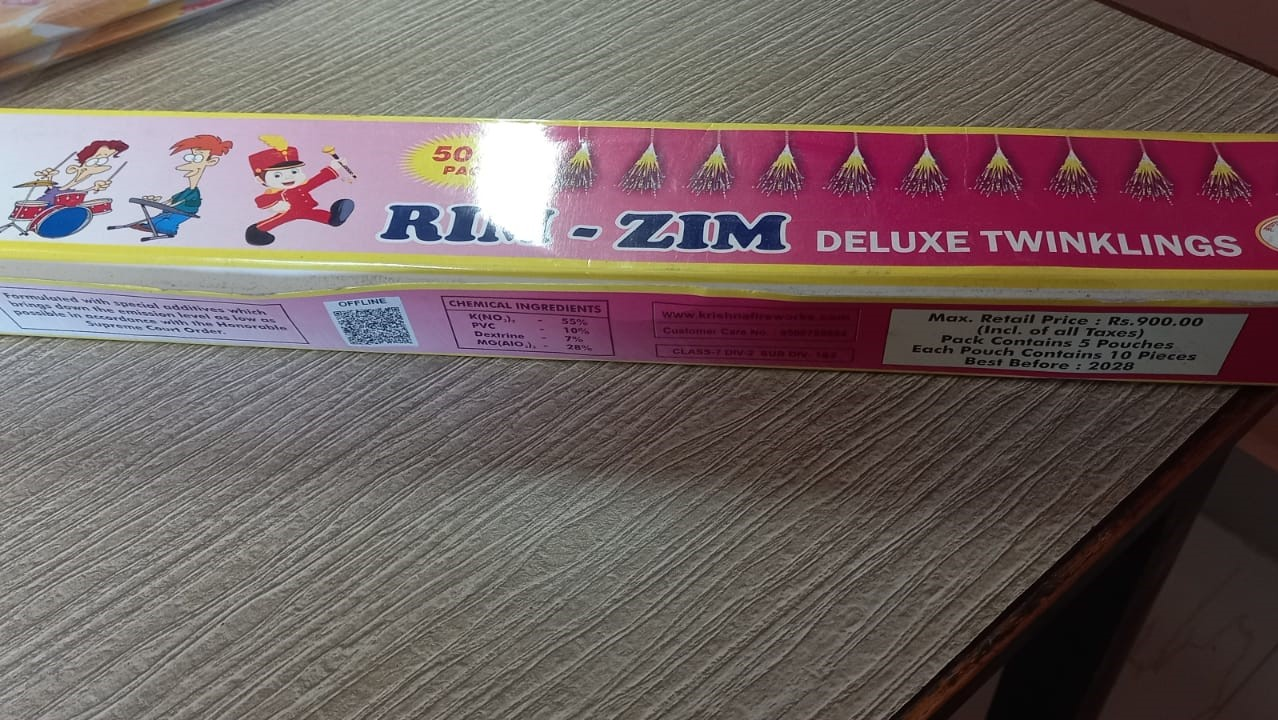
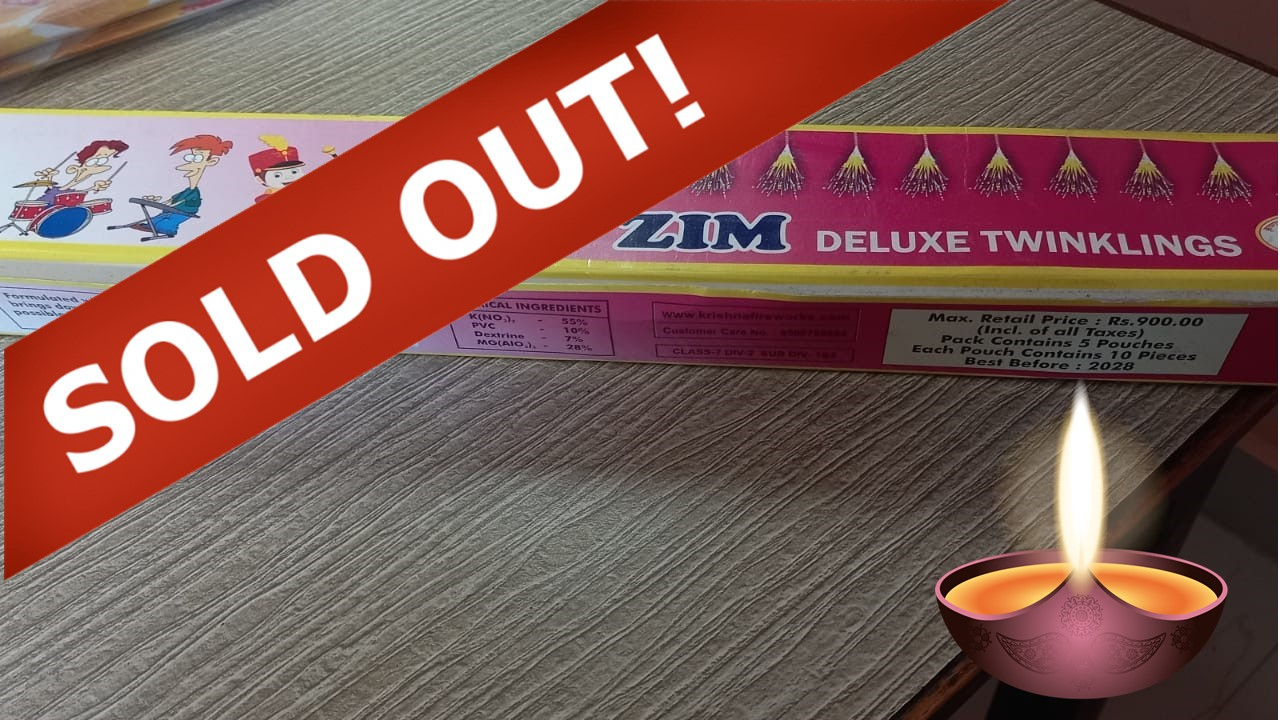
manysoldout

diff --git a/Desktop/cat.js b/Desktop/cat.js
@@ -84,14 +84,6 @@ function buynoww7(){
     document.getElementById("proamount").value = "Product Amount: "+amount;
 }
 
-function buynoww8(){
-    var t= document.getElementById("itemname8");
-    var name=t.innerText;
-    document.getElementById("proname").value = "Product Name: "+name;
-    var s= document.getElementById("itemamount8");
-    var amount=s.innerText;
-    document.getElementById("proamount").value = "Product Amount: "+amount;
-}
 function buynoww9(){
     var t= document.getElementById("itemname9");
     var name=t.innerText;
@@ -214,14 +206,6 @@ function buynoww22(){
     var amount=s.innerText;
     document.getElementById("proamount").value = "Product Amount: "+amount;
 }
-function buynoww23(){
-    var t= document.getElementById("itemname23");
-    var name=t.innerText;
-    document.getElementById("proname").value = "Product Name: "+name;
-    var s= document.getElementById("itemamount23");
-    var amount=s.innerText;
-    document.getElementById("proamount").value = "Product Amount: "+amount;
-}
 function buynoww24(){
     var t= document.getElementById("itemname24");
     var name=t.innerText;
@@ -267,14 +251,6 @@ function buynoww30(){
     var name=t.innerText;
     document.getElementById("proname").value = "Product Name: "+name;
     var s= document.getElementById("itemamount30");
-    var amount=s.innerText;
-    document.getElementById("proamount").value = "Product Amount: "+amount;
-}
-function buynoww31(){
-    var t= document.getElementById("itemname31");
-    var name=t.innerText;
-    document.getElementById("proname").value = "Product Name: "+name;
-    var s= document.getElementById("itemamount31");
     var amount=s.innerText;
     document.getElementById("proamount").value = "Product Amount: "+amount;
 }

diff --git a/Mobile/cat.js b/Mobile/cat.js
@@ -84,14 +84,6 @@ function buynoww7(){
     document.getElementById("proamount").value = "Product Amount: "+amount;
 }
 
-function buynoww8(){
-    var t= document.getElementById("itemname8");
-    var name=t.innerText;
-    document.getElementById("proname").value = "Product Name: "+name;
-    var s= document.getElementById("itemamount8");
-    var amount=s.innerText;
-    document.getElementById("proamount").value = "Product Amount: "+amount;
-}
 function buynoww9(){
     var t= document.getElementById("itemname9");
     var name=t.innerText;
@@ -214,14 +206,7 @@ function buynoww22(){
     var amount=s.innerText;
     document.getElementById("proamount").value = "Product Amount: "+amount;
 }
-function buynoww23(){
-    var t= document.getElementById("itemname23");
-    var name=t.innerText;
-    document.getElementById("proname").value = "Product Name: "+name;
-    var s= document.getElementById("itemamount23");
-    var amount=s.innerText;
-    document.getElementById("proamount").value = "Product Amount: "+amount;
-}
+
 function buynoww24(){
     var t= document.getElementById("itemname24");
     var name=t.innerText;
@@ -278,14 +263,7 @@ function buynoww31(){
     var amount=s.innerText;
     document.getElementById("proamount").value = "Product Amount: "+amount;
 }
-function buynoww31(){
-    var t= document.getElementById("itemname31");
-    var name=t.innerText;
-    document.getElementById("proname").value = "Product Name: "+name;
-    var s= document.getElementById("itemamount31");
-    var amount=s.innerText;
-    document.getElementById("proamount").value = "Product Amount: "+amount;
-}
+
 function buynoww32(){
     var t= document.getElementById("itemname32");
     var name=t.innerText;

diff --git a/Desktop/catalogs.html b/Desktop/catalogs.html
@@ -84,7 +84,7 @@
         <h3 id="itemname8">Red phool jadi</h3>
         <p style="color: yellow;" >MRP- ₹155</p>
         <h6 id="itemamount8">Our Price- ₹99</h6>
-        <button onclick="buynoww8()" class="buy-4"><a href="#formtp">Buy Now</a></button>
+        <button class="buy-4"><a>Sold Out!!</a></button>
     </div>
 
     <!-- Third item: Hershey's Chocolate Milkshake -->
@@ -212,7 +212,7 @@
         <h3 id="itemname23">Fire Strip</h3>
         <p style="color: yellow;">MRP- ₹900</p>
         <h6 id="itemamount23">Our Price- ₹499</h6>
-        <button onclick="buynoww23()" class="buy-4"><a href="#formtp">Buy Now</a></button>
+        <button class="buy-4"><a>Sold Out!!</a></button>
     </div>
     
     <div class="content">
@@ -260,7 +260,7 @@
         <h3 id="itemname29">Bird Phool Jadi</h3>
         <p style="color: yellow;">MRP- ₹1121</p>
         <h6 id="itemamount29">Our Price- ₹199</h6>
-        <button class="buy-4"><a href="#formtp">Sold Out!!</a></button>
+        <button class="buy-4"><a>Sold Out!!</a></button>
     </div>
     
     <div class="content">
@@ -276,7 +276,7 @@
         <h3 id="itemname31">Sparkle phool jadi</h3>
         <p style="color: yellow;">MRP- ₹1323</p>
         <h6 id="itemamount31">Our Price- ₹199</h6>
-        <button onclick="buynoww31()" class="buy-4"><a href="#formtp">Buy Now</a></button>
+        <button class="buy-4"><a>Sold Out!!</a></button>
     </div>
     
     <div class="content">

diff --git a/Mobile/catalogs.html b/Mobile/catalogs.html
@@ -84,7 +84,7 @@
         <h3 id="itemname8">Red phool jadi</h3>
         <p style="color: yellow;" >MRP- ₹155</p>
         <h6 id="itemamount8">Our Price- ₹99</h6>
-        <button onclick="buynoww8()" class="buy-4"><a href="#formtp">Buy Now</a></button>
+        <button class="buy-4"><a>Sold Out!!</a></button>
     </div>
 
     <!-- Third item: Hershey's Chocolate Milkshake -->
@@ -212,7 +212,7 @@
         <h3 id="itemname23">Fire Strip</h3>
         <p style="color: yellow;">MRP- ₹900</p>
         <h6 id="itemamount23">Our Price- ₹499</h6>
-        <button onclick="buynoww23()" class="buy-4"><a href="#formtp">Buy Now</a></button>
+        <button class="buy-4"><a>Sold Out!!</a></button>
     </div>
     
     <div class="content">
@@ -260,7 +260,7 @@
         <h3 id="itemname29">Bird Phool Jadi</h3>
         <p style="color: yellow;">MRP- ₹1121</p>
         <h6 id="itemamount29">Our Price- ₹199</h6>
-        <button class="buy-4"><a href="#formtp">Sold Out!!</a></button>
+        <button class="buy-4"><a>Sold Out!!</a></button>
     </div>
     
     <div class="content">
@@ -276,7 +276,7 @@
         <h3 id="itemname31">Sparkle phool jadi</h3>
         <p style="color: yellow;">MRP- ₹1323</p>
         <h6 id="itemamount31">Our Price- ₹199</h6>
-        <button onclick="buynoww31()" class="buy-4"><a href="#formtp">Buy Now</a></button>
+        <button class="buy-4"><a>Sold Out!!</a></button>
     </div>
     
     <div class="content">
